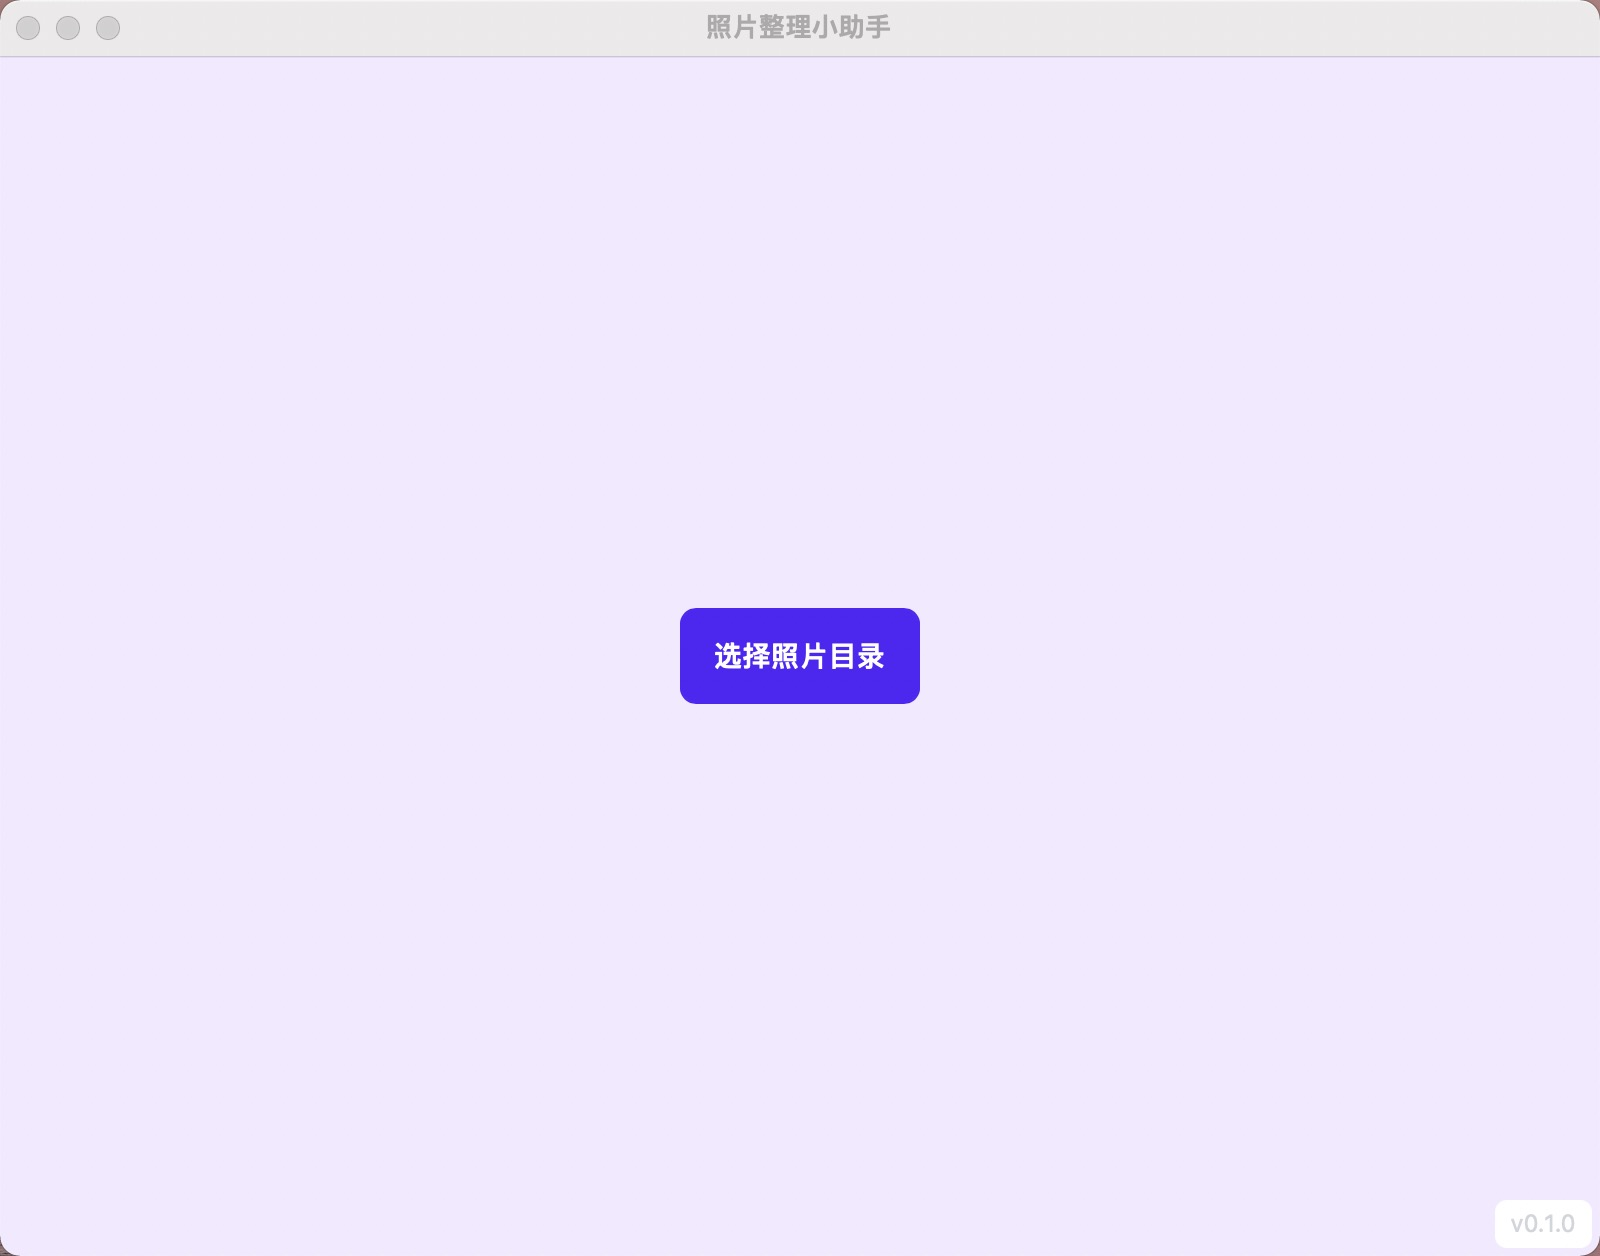
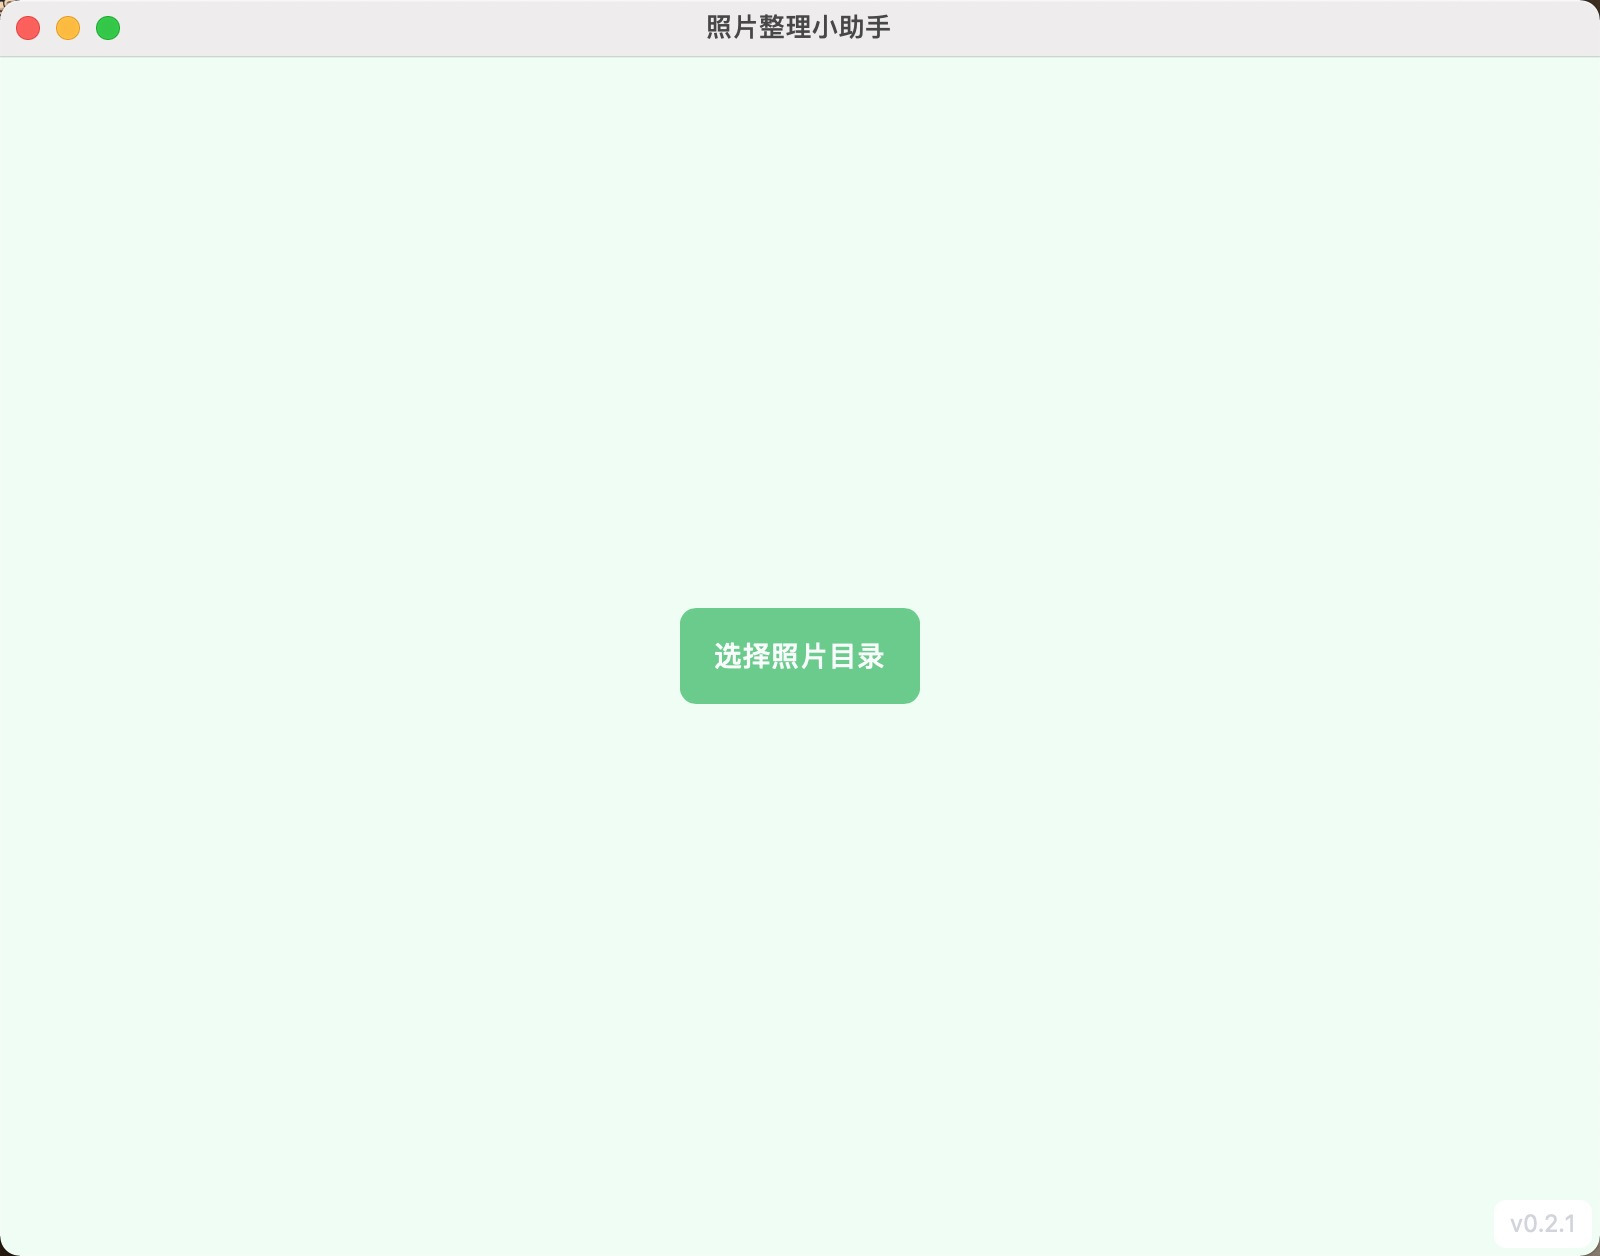
update image

diff --git a/README.md b/README.md
@@ -7,7 +7,13 @@
 
 ## 功能
 
-### v0.1.0
+### v0.2
+
+- 新图标，新配色
+- 通过github actions实现打包
+- 完善升级机制
+
+### v0.1
 
 - 按照片拍摄日期将照片一键整理到日期目录
 - 通过Hash检测，查找当前目录中的重复照片
